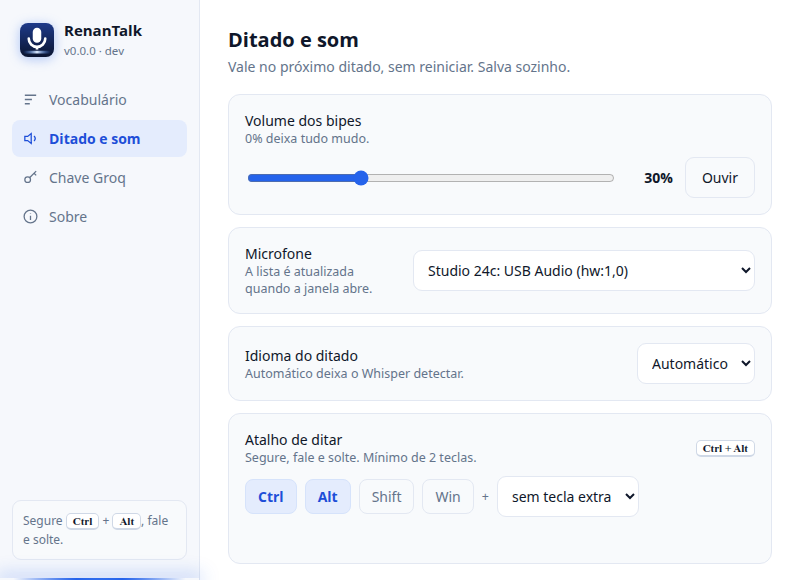
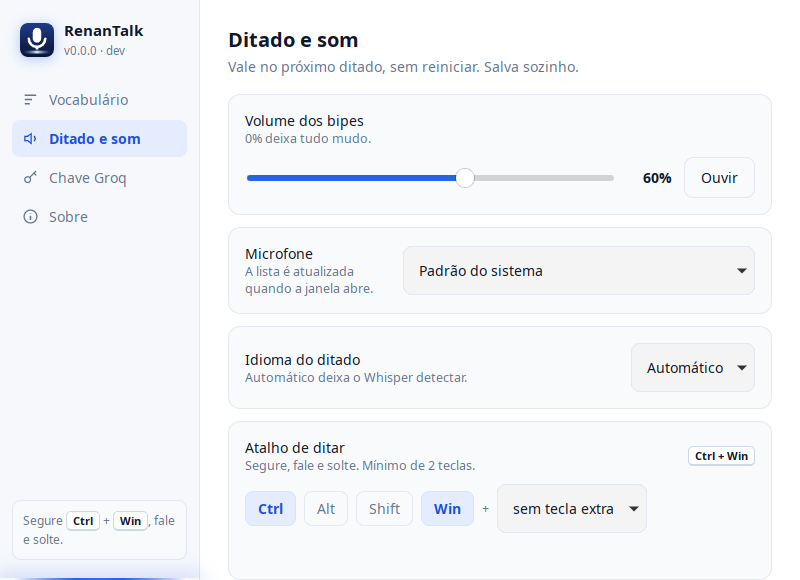
Estado: tarefa 1 provada localmente e print da janela Tauri real

diff --git a/docs/features/desktop-completo/estado.md b/docs/features/desktop-completo/estado.md
@@ -2,7 +2,7 @@
 
 - Nível: 2 (várias telas, armazenamento novo, pedido aberto)
 - Etapa: 5 de 7 Construir
-- Próximo passo: tarefa 1 (ajustes.json + aba Ditado e som) · sozinho
+- Próximo passo: tarefa 2 (historico.db + aba Histórico) · sozinho
 - Branch e PR: t3/desktop-historico-termos-volume · ainda não
 - Protótipo: B + C (abre na tela Início com resumo; Histórico em lista com detalhe e correção), escolhido em 26/11/2026
 - Go: 26/11/2026 22:08 por Renan (clique no card)
@@ -33,7 +33,7 @@
 ## Tarefas e provas
 | # | Tarefa | Depende de | Cenário (ação → resultado) | Prova | Nível | Resultado |
 |---|---|---|---|---|---|---|
-| 1 | PR 1 · `ajustes.json` (Python e Rust) + aba "Ditado e som": volume com bipe gerado no Windows, microfone, idioma, atalho configurável · Sonnet | — | 5, 6, 7, 8 | Linux: app rodando, bipes medidos, print da aba; Windows: notebook via delegação | — | pendente |
+| 1 | PR 1 · `ajustes.json` (Python e Rust) + aba "Ditado e som": volume com bipe gerado no Windows, microfone, idioma, atalho configurável · Sonnet | — | 5, 6, 7, 8 | Linux: app rodando, bipes medidos, print da aba; Windows: notebook via delegação | 4 | passou (local): 13 testes; listener X real trocou ctrl+alt/ctrl+win sem reiniciar; janela Tauri real compilada e renderizada (print). Falta: clique na janela (tela bloqueada) e Windows | 
 | 2 | PR 1 · `historico.db` + aba Histórico (layout C): gravar, buscar, editar, copiar, colar, excluir, retenção · Sonnet | 1 | 1, 2, 3, 10 | ditar de verdade e print do item; consulta SQLite antes e depois | — | pendente |
 | 3 | PR 1 · Colar último: menu da bandeja (Windows e Linux) + atalho · Sonnet | 1, 2 | 4 | atalho num editor de texto, print | — | pendente |
 | 4 | PR 1 · Aparência: luz, tema, notificações · Sonnet | 1 | 9 | print da luz em cada posição e do tema | — | pendente |
@@ -48,7 +48,10 @@
 |---|---|---|---|---|---|---|
 
 ## Pendências e fora de escopo
--
+- Provar por clique na janela Tauri as abas novas (tela estava bloqueada em 26/11 22:18).
+- Provar no Windows: bipe gerado, atalho via `keyboard` + Casador.
+- Microfone plugado com o app aberto só aparece após reiniciar (cache do PortAudio).
+- Rótulo "Segure Ctrl + Super" no menu da bandeja Linux ainda fixo.
 
 ## Retro
 -
